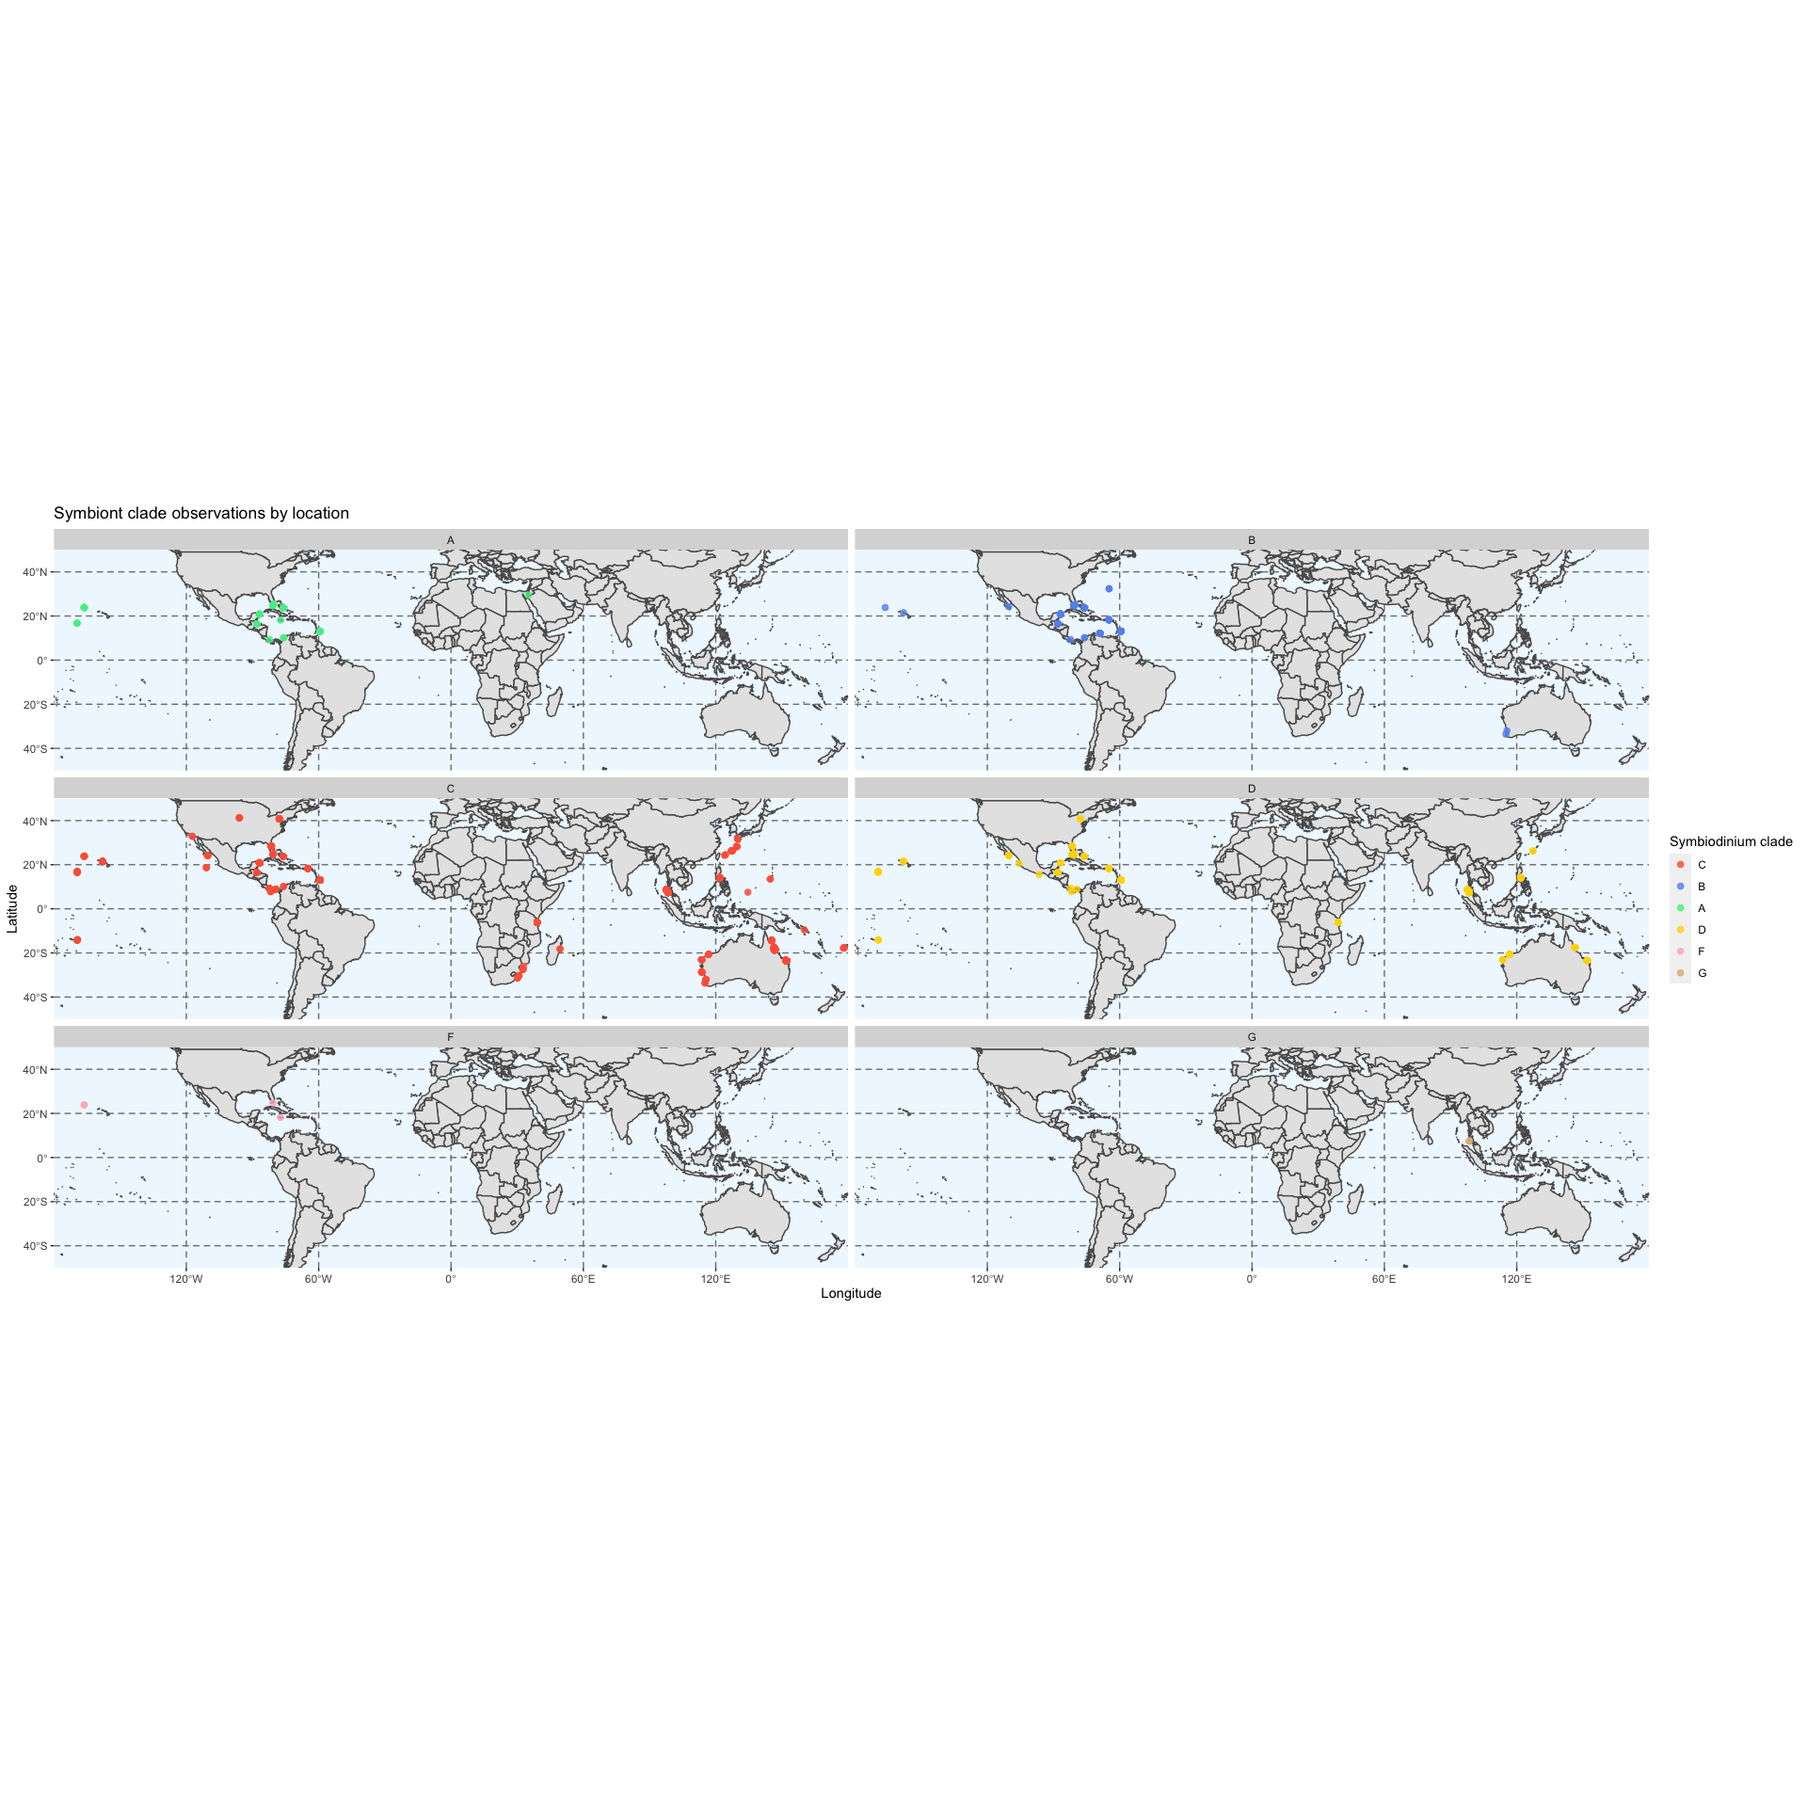
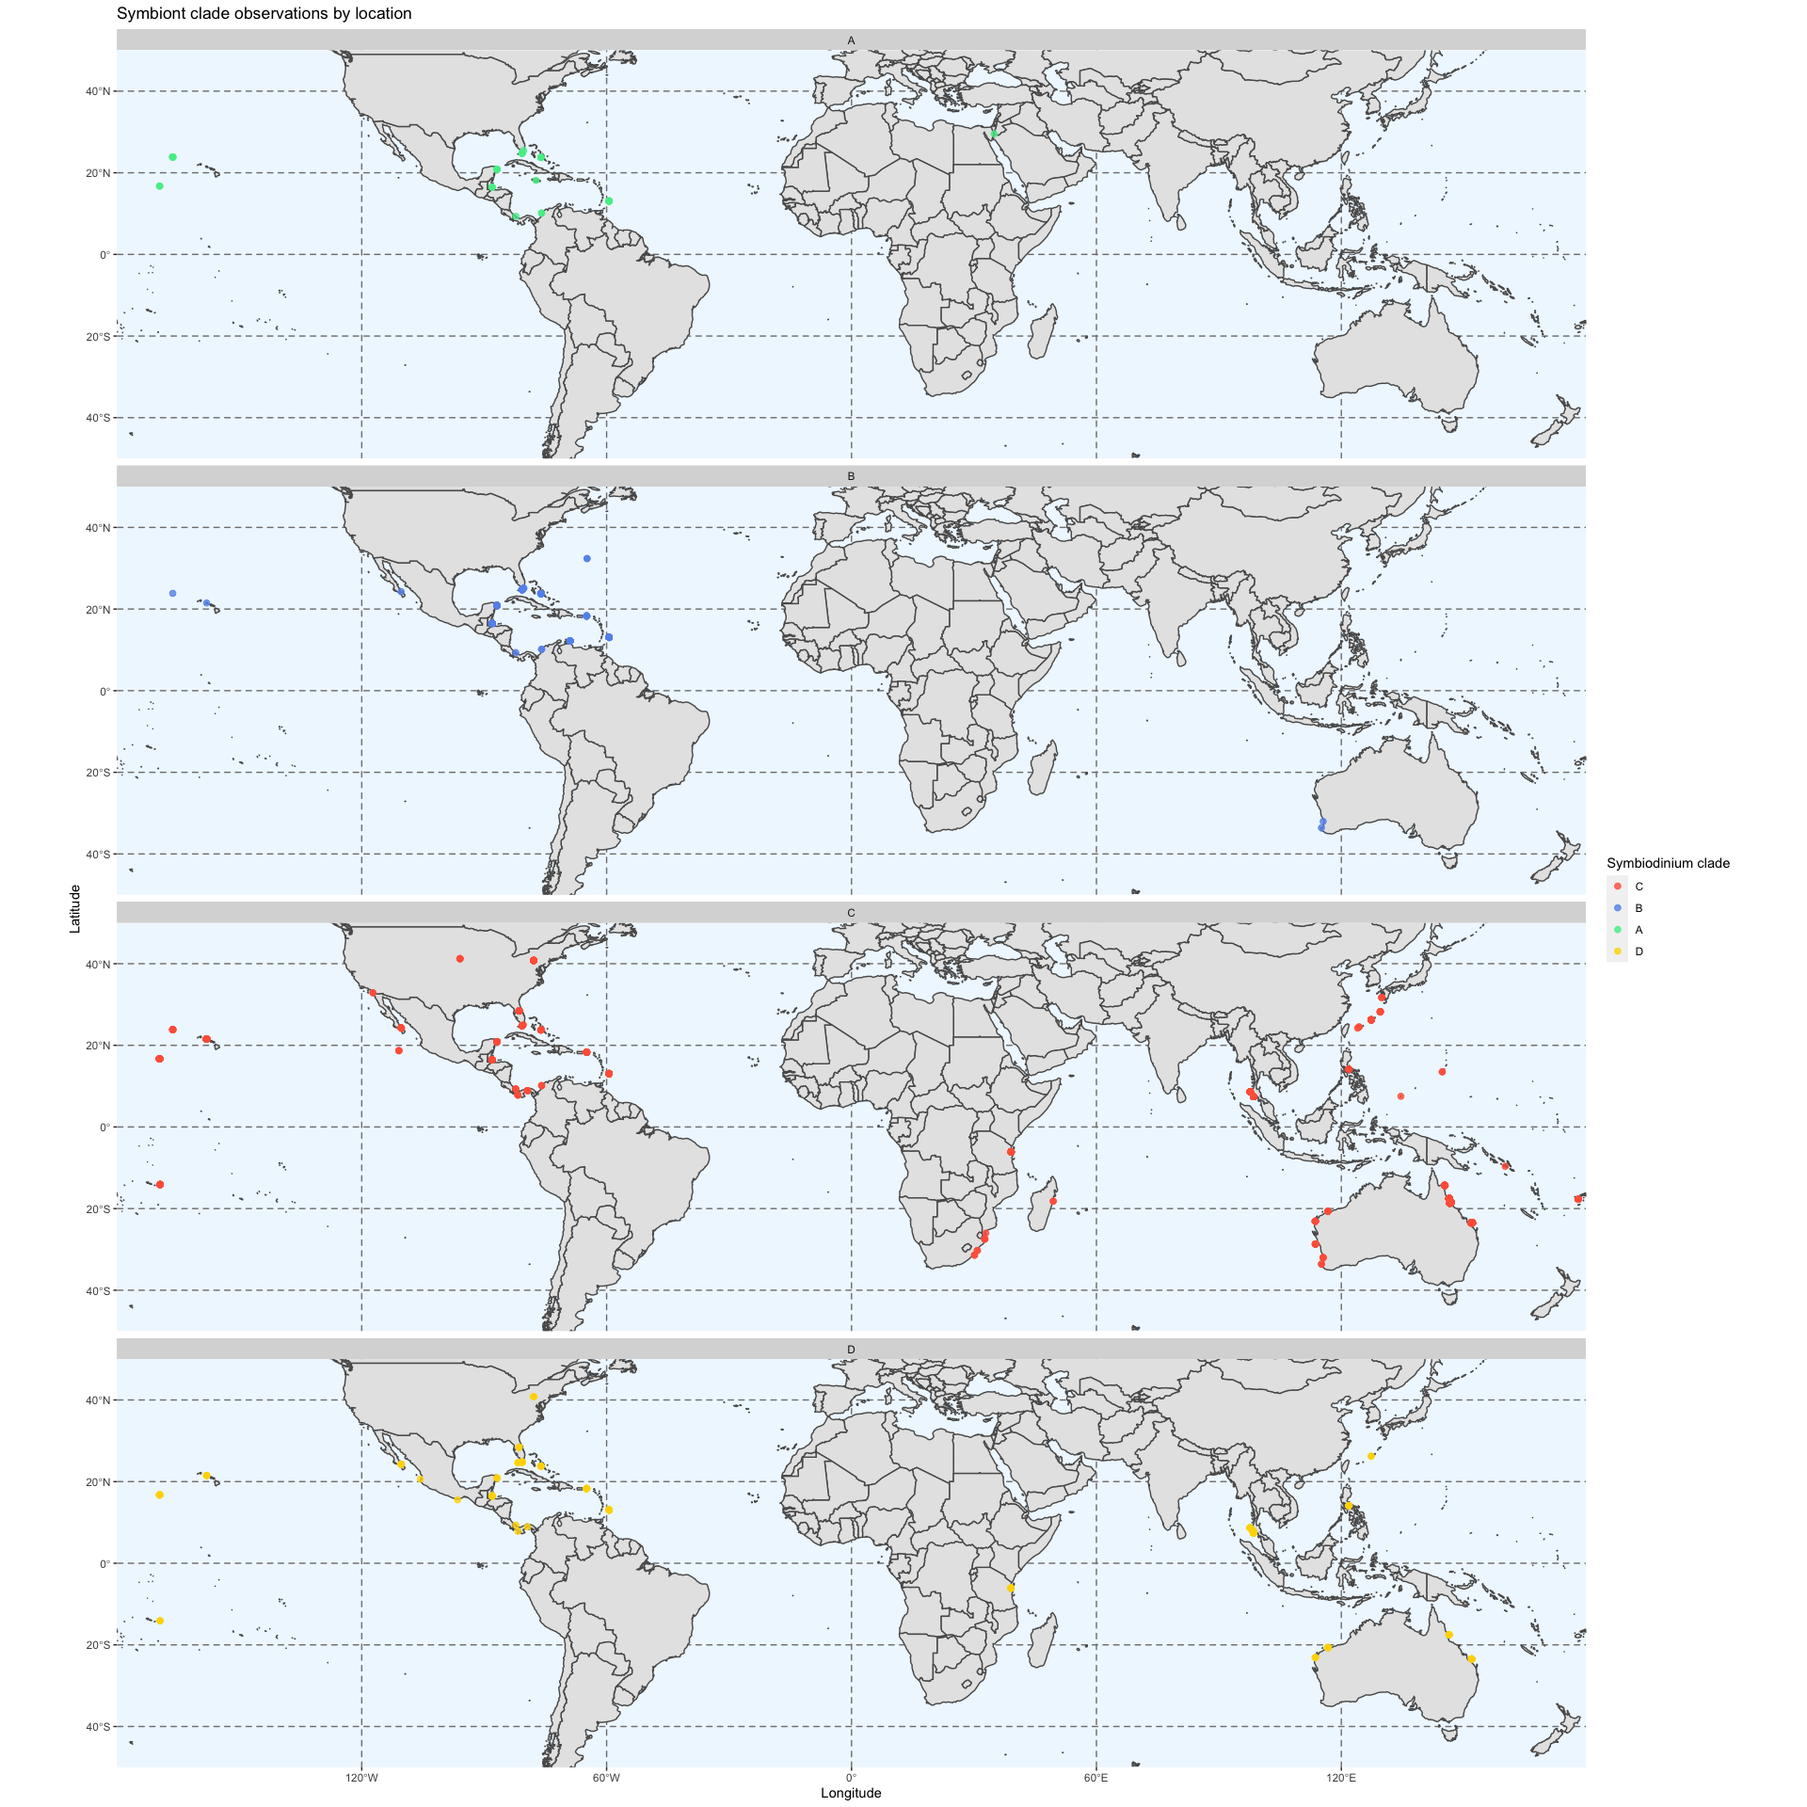
fixing knitting issue with figure 3

diff --git a/scripts/final_project.md b/scripts/final_project.md
@@ -19,18 +19,21 @@ syms <- read.csv("data/ctdb_1.1.0_data.csv") %>%
   group_by(specie_id) %>%
   filter(n() >= 10)
 
-#visualize data (Symbiodinium clades by species)
-ggplot(syms) +
-  geom_bar(aes(x = value, fill = value)) +
-  facet_wrap(~specie_name) +
-  labs(x = 'Symbiodinium clade',
-       y = 'Observations') +
-  scale_fill_manual(breaks = c("C", "B", "A",  "D", "F", "G"), values = c("tomato", "cornflowerblue", "seagreen2", "gold", "lightpink", "burlywood"), name = "Symbiodinium clade") +
-  theme_bw() + theme(panel.border = element_rect(color="black", fill=NA, size=0.75), panel.grid.major = element_blank(),
-                     panel.grid.minor = element_blank(), axis.line = element_blank())
-```
+#write.csv(syms, "data/syms.csv")
 
-![](final_project_files/figure-gfm/data%20clean-1.png)<!-- -->
+#visualize data (Symbiodinium clades by species)
+# p1 <- ggplot(syms) +
+#   geom_bar(aes(x = value, fill = value)) +
+#   facet_wrap(~specie_name) +
+#   labs(x = 'Symbiodinium clade',
+#        y = 'Observations') +
+#   scale_fill_manual(breaks = c("C", "B", "A",  "D", "F", "G"), values = c("tomato", "cornflowerblue", "seagreen2", "gold", "lightpink", "burlywood"), name = "Symbiodinium clade") +
+#   theme_bw() + theme(panel.border = element_rect(color="black", fill=NA, size=0.75), panel.grid.major = element_blank(),
+#                      panel.grid.minor = element_blank(), axis.line = element_blank())
+# p1 
+
+#ggsave("output/sym_clades_bar.pdf", p1, width = 12, height = 9, units = "in")
+```
 
 Six different *Symbiodinium* clades are found within Scleractinia.
 However, we see that clade C is dominant across most species.
@@ -47,16 +50,18 @@ syms_prop <- syms %>%
   count(specie_name, value) %>%
   group_by(specie_name) %>%
   mutate(prop = prop.table(n)) #saves prop table of symbiodinium clade by species
-syms_prop %>%
-  ggplot(aes(x = "", y = prop, fill = value), size = 12) +
-  geom_bar(stat = "identity", width = 0.5, color = "white") +
-  coord_polar("y", start=0) +
-  scale_fill_manual(breaks = c("C", "B", "A",  "D", "F", "G"), values = c("tomato", "cornflowerblue", "seagreen2", "gold", "lightpink", "burlywood"), name = "Symbiodinium clade") +
-  facet_wrap(~specie_name) +
-  theme_void() + theme(legend.position = "bottom")
-```
+#write.csv(syms_prop, "data/syms_prop.csv")
 
-![](final_project_files/figure-gfm/unnamed-chunk-1-1.png)<!-- -->
+# p2 <- syms_prop %>%
+#   ggplot(aes(x = "", y = prop, fill = value), size = 12) +
+#   geom_bar(stat = "identity", width = 0.5, color = "white") +
+#   coord_polar("y", start=0) +
+#   scale_fill_manual(breaks = c("C", "B", "A",  "D", "F", "G"), values = c("tomato", "cornflowerblue", "seagreen2", "gold", "lightpink", "burlywood"), name = "Symbiodinium clade") +
+#   facet_wrap(~specie_name) +
+#   theme_void() + theme(legend.position = "bottom")
+
+#ggsave("output/sym_clades_pie.pdf", p2, width = 20, height = 10, units = "in")
+```
 
 Though this is more visually accessible, the issues with sample
 size/observation bias remain. Going forward, I will treat symbiont clade
@@ -109,23 +114,30 @@ are more commonly available to reduce gaps. Troubleshooting of the
 actual inference may also yield more results.
 
 We can read in the treefile and look at the resulting phylogeny,
-complete with support values from the ML analysis. The log file
-indicates that the best fit model is GTR+F+I+G4, based on BIC.
+complete with support values from the ML analysis. The best fit model is
+TVM+F+I+G4, based on BIC.
 
 ``` r
 #read in cluster output
-phy <- read.tree("cluster/final/alignment.co1.cat.fasta.treefile") 
+phyraw <- read.tree("data/cluster/final/alignment.co1.cat.fasta.treefile") 
+phy <- root(phyraw, "Xestospongia_testudinaria")
 
 #drop tips not in symbiont clade data set
 drops <- phy$tip.label[phy$tip.label %in% str_replace(syms_prop$specie_name, " ", "_") == FALSE]
 phy1 <- drop.tip(phy, drops)
+#write.tree(phy1, "output/phy1")
 
 #plot tree with support values
+#pdf("output/tree_sv.pdf", width = 20, height = 30)
 plot(phy1) 
 nodelabels(phy1$node.label)
 ```
 
 ![](final_project_files/figure-gfm/unnamed-chunk-3-1.png)<!-- -->
+
+``` r
+#dev.off()
+```
 
 This tree is roughly as expected, as species within the same genus are
 grouped in clades. As the current accepted classification of
@@ -153,9 +165,12 @@ clades <- full_join(tips, filter(syms_prop, specie_name %in% str_replace(phy1$ti
   filter(is.na(tip.label) == FALSE) %>% #removing internal nodes
   pivot_wider(names_from = value)
 
+#write.csv(clades, "data/clades.csv")
+
 #plot cladogram
-ggtree(phy1, branch.length = "none") %<+% clades +
+p3 <- ggtree(phy1, branch.length = "none") %<+% clades +
   geom_tiplab(fontface = "italic", size = 10, offset = 0.2) +
+  geom_tippoint(aes(color=G), size = 8, position = position_dodge(width = 0)) +
   geom_tippoint(aes(color=F), size = 8) +
   geom_tippoint(aes(color=B), size = 8, position = position_dodge(width = 0.75)) +
   geom_tippoint(aes(color=A), size = 8, position = position_dodge(width = 1.5)) +
@@ -164,16 +179,19 @@ ggtree(phy1, branch.length = "none") %<+% clades +
   scale_color_manual(breaks = c("C", "B", "A",  "D", "F", "G"), values = c("tomato", "cornflowerblue", "seagreen2", "gold", "lightpink", "burlywood"), name = "Symbiodinium clade") + 
   xlim(-2, 35) +  
   theme(legend.position = "bottom")
+p3
 ```
 
 ![](final_project_files/figure-gfm/unnamed-chunk-4-1.png)<!-- -->
+
+``` r
+#ggsave("output/tree_sym.pdf", p3, width = 30, height = 40, units = "in")
+```
 
 As clade C is almost ubiquitous, a first glance at this cladogram
 doesn’t reveal that much in terms of phylogenetic conservation.
 However, it does seem that associations with less common clades, such as
 B or A, tend to be shared across sister tips (ex. Orbicella spp.).
-Interestingly, tips that diverged most recently seem to associate with
-fewer clades, suggesting that evolutionary time may be a factor.
 
 ## Geospatial distribution of symbiont clades
 
@@ -188,37 +206,35 @@ Here, I plot each symbiont clade observation onto a world map.
 ``` r
 #read in location data with lat and long
 locs <- read.csv("data/locations.csv") %>%
-  select(location_id, latitude, longitude)
+  dplyr::select(location_id, latitude, longitude)
 
 #combine with symbiont data
 geosyms <- merge(locs, syms, by = "location_id")
+#write.csv(geosyms, "data/geosyms.csv")
 
 world <- ne_countries(scale = "medium", returnclass = "sf")
 
-ggplot() +
+p4 <- ggplot() +
   geom_sf(data = world) +
   xlab("Longitude") + 
   ylab("Latitude") +
-  geom_point(data = geosyms, aes(x = longitude, y = latitude, color = value), size = 2, alpha = 0.8) +
-  scale_color_manual(breaks = c("C", "B", "A",  "D", "F", "G"), values = c("tomato", "cornflowerblue", "seagreen2", "gold", "lightpink", "burlywood"), name = "Symbiodinium clade") + 
-  facet_wrap(~value, ncol = 2) +
+  geom_point(data = filter(geosyms, value %in% c("A", "B", "C", "D") == TRUE), aes(x = longitude, y = latitude, color = value), size = 2, alpha = 0.8) +
+  scale_color_manual(breaks = c("C", "B", "A",  "D"), values = c("tomato", "cornflowerblue", "seagreen2", "gold"), name = "Symbiodinium clade") + 
+  facet_wrap(~value, ncol = 1) +
   coord_sf(ylim = c(-50, 50), expand = FALSE) +
   ggtitle("Symbiont clade observations by location") +
   theme(panel.grid.major = element_line(color = gray(.5), linetype = "dashed", size = 0.5), panel.background = element_rect(fill = "aliceblue"))
+p4
 ```
 
 ![](final_project_files/figure-gfm/geo-1.png)<!-- -->
 
-Clades C and D are well distributed, while clades A and B seem
-restricted to the Atlantic/Caribbean. Again, this doesn’t tell us too
-much, as species distribution may also follow these patterns. Further
-analysis can be done by comparing symbiont and host ranges to tease out
-potential geographical influences.
+``` r
+#ggsave("output/geodist_syms.pdf", p4, width = 11, height = 8.5, units = "in")
+```
 
-This analysis currently relies on data visualization to draw
-conclusions. Moving forward, I’d like to apply some statistical methods
-to quantify the relationships between location, phylogenetic relation,
-and symbiont clade association.
+Clades C and D are well distributed, while clades A and B seem
+restricted to the Atlantic/Caribbean.
 
 ## Testing for phylogenetic signal
 
@@ -254,8 +270,8 @@ multi <- clades %>%
     ## GEIGER-fitted comparative model of discrete data
     ##  fitted Q matrix:
     ##               N         Y
-    ##     N -0.589062  0.589062
-    ##     Y  0.589062 -0.589062
+    ##     N -0.589055  0.589055
+    ##     Y  0.589055 -0.589055
     ## 
     ##  fitted 'lambda' model parameter:
     ##  lambda = 1.000000
@@ -268,7 +284,7 @@ multi <- clades %>%
     ## 
     ## Convergence diagnostics:
     ##  optimization iterations = 100
-    ##  failed iterations = 46
+    ##  failed iterations = 39
     ##  number of iterations with same best fit = NA
     ##  frequency of best fit = NA
     ## 
@@ -282,11 +298,11 @@ multi <- clades %>%
     ## GEIGER-fitted comparative model of discrete data
     ##  fitted Q matrix:
     ##               N         Y
-    ##     N -2.621189  2.621189
-    ##     Y  2.621189 -2.621189
+    ##     N -2.621186  2.621186
+    ##     Y  2.621186 -2.621186
     ## 
     ##  fitted 'lambda' model parameter:
-    ##  lambda = 0.413509
+    ##  lambda = 0.413510
     ## 
     ##  model summary:
     ##  log-likelihood = -56.493236
@@ -296,7 +312,7 @@ multi <- clades %>%
     ## 
     ## Convergence diagnostics:
     ##  optimization iterations = 100
-    ##  failed iterations = 63
+    ##  failed iterations = 54
     ##  number of iterations with same best fit = NA
     ##  frequency of best fit = NA
     ## 
@@ -310,11 +326,11 @@ multi <- clades %>%
     ## GEIGER-fitted comparative model of discrete data
     ##  fitted Q matrix:
     ##               N         Y
-    ##     N -2.233241  2.233241
-    ##     Y  2.233241 -2.233241
+    ##     N -2.233243  2.233243
+    ##     Y  2.233243 -2.233243
     ## 
     ##  fitted 'lambda' model parameter:
-    ##  lambda = 0.906706
+    ##  lambda = 0.906707
     ## 
     ##  model summary:
     ##  log-likelihood = -30.358380
@@ -338,8 +354,8 @@ multi <- clades %>%
     ## GEIGER-fitted comparative model of discrete data
     ##  fitted Q matrix:
     ##               N         Y
-    ##     N -15.20539  15.20539
-    ##     Y  15.20539 -15.20539
+    ##     N -15.20467  15.20467
+    ##     Y  15.20467 -15.20467
     ## 
     ##  fitted 'lambda' model parameter:
     ##  lambda = 0.994382
@@ -352,7 +368,7 @@ multi <- clades %>%
     ## 
     ## Convergence diagnostics:
     ##  optimization iterations = 100
-    ##  failed iterations = 59
+    ##  failed iterations = 57
     ##  number of iterations with same best fit = NA
     ##  frequency of best fit = NA
     ## 
@@ -366,8 +382,8 @@ multi <- clades %>%
     ## GEIGER-fitted comparative model of discrete data
     ##  fitted Q matrix:
     ##                 N           Y
-    ##     N -0.03788081  0.03788081
-    ##     Y  0.03788081 -0.03788081
+    ##     N -0.03788073  0.03788073
+    ##     Y  0.03788073 -0.03788073
     ## 
     ##  fitted 'lambda' model parameter:
     ##  lambda = 0.000000
@@ -380,7 +396,7 @@ multi <- clades %>%
     ## 
     ## Convergence diagnostics:
     ##  optimization iterations = 100
-    ##  failed iterations = 50
+    ##  failed iterations = 51
     ##  number of iterations with same best fit = NA
     ##  frequency of best fit = NA
     ## 
@@ -408,7 +424,7 @@ multi <- clades %>%
     ## 
     ## Convergence diagnostics:
     ##  optimization iterations = 100
-    ##  failed iterations = 48
+    ##  failed iterations = 43
     ##  number of iterations with same best fit = NA
     ##  frequency of best fit = NA
     ## 

diff --git a/README.md b/README.md
@@ -94,23 +94,23 @@ and 9 species associated with 3 and 4 clades, respectively. The pie
 charts in Figure 1 visualize the proportional distribution of
 *Symbiodinium* clade associations per species.
 
-![](README_files/figure-gfm/unnamed-chunk-1-1.png)<!-- --> **Figure 1.**
-Pie charts showing the proportion of observations attributed to each
-*Symbiodinium* clade per *Scleractinia* species.
+![](README_files/figure-gfm/fig1-1.png)<!-- --> **Figure 1.** Pie charts
+showing the proportion of observations attributed to each *Symbiodinium*
+clade per *Scleractinia* species.
 
 ### Phylogenetic inference
 
-![](README_files/figure-gfm/unnamed-chunk-2-1.png)<!-- --> **Figure 2**
-Rooted phylogenetic tree for *Scleractinia* with ML support values,
-generated with CO1 mitochondrial gene sequences. Only tips with
-*Symbiodinium* clade association data are shown.
+![](README_files/figure-gfm/fig2-1.png)<!-- --> **Figure 2** Rooted
+phylogenetic tree for *Scleractinia* with ML support values, generated
+with CO1 mitochondrial gene sequences. Only tips with *Symbiodinium*
+clade association data are shown.
 
 Figure 2 shows the rooted phylogenetic tree for all *Scleractinia*
 species with trait data, generated from IQ-TREE with maximum likelihood
 support values. The best model fit by Bayesian information criteria
 (BIC) was TVM+F+I+G4, with a log likelihood value of -15093.3637.
 
-![](README_files/figure-gfm/unnamed-chunk-3-1.png)<!-- --> **Figure 3**
+![](README_files/figure-gfm/unnamed-chunk-1-1.png)<!-- --> **Figure 3**
 Cladogram of 86 *Scleractinia* species. Colored points at tips
 correspond to observed *Symbiodinium* clade associations.
 
@@ -142,12 +142,14 @@ high phylogenetic signal (Brownian motion model).
 The first method of character coding by most-associated clade resulted
 in a lambda value of 0.733, which shows moderate phylogenetic signal.
 The second method, in which association with each clade is treated as a
-separate binary trait, yielded \>0.9 lambda values for clades A, B, and
-C, suggesting strong phylogenetic signal. However, the lambda value for
-clade D association was 0.414, indicating a low phylogenetic signal.
-Similarly, the third method considering the number of clades found in
-association led to a lamda value of 0.399, also showing low phylogenetic
-signal.
+separate binary trait, yielded \>0.9 lambda values for clades A and B,
+suggesting strong phylogenetic signal. Association with clade C resulted
+in a 1.000 lambda value — however, as clade C is nearly ubiquitous
+across the tree due to incomplete sampling, this does not give any
+information on phylogenetic signal. The lambda value for clade D
+association was 0.414, indicating a low phylogenetic signal. Similarly,
+the third method considering the number of clades found in association
+led to a lamda value of 0.399, also showing low phylogenetic signal.
 
 ## Discussion
 
